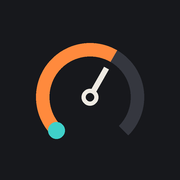
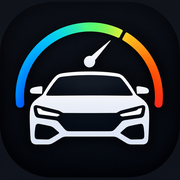
Novo ícone do app
Claude-Session: https://claude.ai/code/session_01SftWFcjCqVhvUuc3LYQ49j

Changed region(s): [[0.0556, 0.1111, 0.9167, 0.8333]]

diff --git a/sw.js b/sw.js
@@ -1,7 +1,7 @@
 // Service worker do Painel do Carro: deixa o app abrir mesmo sem internet.
 // Ao publicar uma versão nova do index.html, troque o número abaixo (v1 -> v2...)
 // para o celular baixar a atualização.
-const CACHE = 'painel-carro-v1';
+const CACHE = 'painel-carro-v2';
 const APP_FILES = [
   './',
   './index.html',
